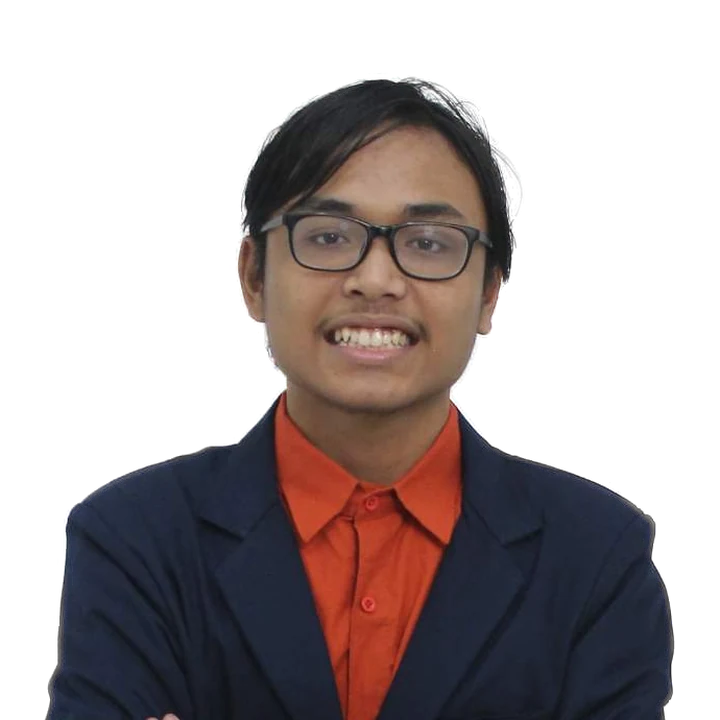
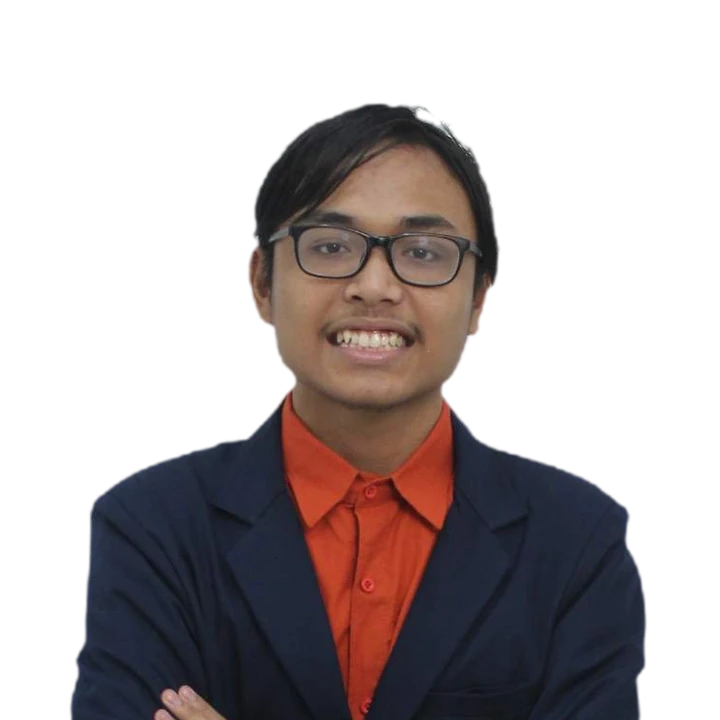
Fixed profile photo

diff --git a/css/styles.css b/css/styles.css
@@ -292,31 +292,51 @@ button.tech-item[aria-pressed="true"] .tech-name { color: var(--accent-soft); }
   box-shadow: 0 0 0 10px rgba(74, 144, 226, 0.06), 0 0 60px -10px rgba(74, 144, 226, 0.55);
 }
 .photo img { width: 100%; height: 100%; object-fit: cover; }
-/* real photo: background removed, head rises out of the circle, chest fades into the page */
+/* real photo: background removed, layered like a studio card.
+   Layers, back to front: glow circle, glass arch, photo (floats), light line. */
 .photo.has-img {
-  width: min(19rem, 100%); aspect-ratio: 1;
+  --px: 0px; --py: 0px;
+  width: min(20rem, 100%); aspect-ratio: 1;
   border-radius: 0; overflow: visible; background: none; border: 0; box-shadow: none;
   display: block; isolation: isolate;
 }
-.photo.has-img::before {
-  content: ""; position: absolute; z-index: -1;
-  left: 4%; right: 4%; bottom: 3%; aspect-ratio: 1;
-  border-radius: 50%;
-  background: radial-gradient(circle at 50% 38%, rgba(74, 144, 226, 0.34), rgba(25, 27, 31, 0.92) 72%);
-  border: 1px solid rgba(139, 180, 255, 0.3);
-  box-shadow: 0 0 0 10px rgba(74, 144, 226, 0.05), 0 0 70px -12px rgba(74, 144, 226, 0.6);
+.photo-ring, .photo-arch, .photo-line { position: absolute; pointer-events: none; }
+.photo-ring {
+  z-index: -2; inset: 3% 5% 5%; border-radius: 50%;
+  background: radial-gradient(circle at 50% 40%, rgba(74, 144, 226, 0.32), rgba(20, 34, 54, 0.85) 58%, rgba(17, 19, 23, 0.95) 76%);
+  border: 1px solid rgba(139, 180, 255, 0.28);
+  box-shadow: 0 0 0 12px rgba(74, 144, 226, 0.035), 0 0 80px -10px rgba(74, 144, 226, 0.5);
+  transform: translate(calc(var(--px) * -0.4), calc(var(--py) * -0.4));
 }
-.photo.has-img::after {
-  content: ""; position: absolute; left: 8%; right: 8%; bottom: 3%; height: 2px;
-  border-radius: 2px;
-  background: linear-gradient(90deg, transparent, var(--accent), transparent);
-  box-shadow: 0 0 14px 1px rgba(74, 144, 226, 0.7);
+.photo-arch {
+  z-index: -1; left: 21%; right: 21%; top: 19%; bottom: 5%;
+  border-radius: 999px 999px 16px 16px;
+  background: linear-gradient(180deg, rgba(160, 196, 255, 0.13), rgba(160, 196, 255, 0.03) 70%, transparent);
+  border: 1px solid rgba(160, 196, 255, 0.16); border-bottom: 0;
+  -webkit-backdrop-filter: blur(6px); backdrop-filter: blur(6px);
+  transform: translate(calc(var(--px) * -0.2), calc(var(--py) * -0.2));
+}
+.photo-line {
+  left: 0; right: 0; bottom: 5%; height: 2px; border-radius: 2px;
+  background: linear-gradient(90deg, transparent, rgba(74, 144, 226, 0.6) 15%, #8bb4ff 50%, rgba(74, 144, 226, 0.6) 85%, transparent);
+  box-shadow: 0 0 18px 2px rgba(74, 144, 226, 0.55);
+  animation: photo-glow 4.8s ease-in-out infinite;
 }
 .photo.has-img img {
   position: relative; display: block; width: 100%; height: auto;
   object-fit: contain;
-  -webkit-mask-image: linear-gradient(to bottom, #000 70%, transparent 97%);
-  mask-image: linear-gradient(to bottom, #000 70%, transparent 97%);
+  -webkit-mask-image: linear-gradient(to bottom, #000 74%, transparent 95%);
+  mask-image: linear-gradient(to bottom, #000 74%, transparent 95%);
+  filter: drop-shadow(0 18px 24px rgba(0, 0, 0, 0.35));
+  translate: var(--px) var(--py);
+  animation: photo-float 4.8s ease-in-out infinite;
+  transition: translate 0.25s ease-out;
+}
+@keyframes photo-float { 0%, 100% { transform: translateY(0); } 50% { transform: translateY(-10px); } }
+@keyframes photo-glow { 0%, 100% { opacity: 0.75; } 50% { opacity: 1; } }
+@media (prefers-reduced-motion: reduce) {
+  .photo.has-img img, .photo-line { animation: none; }
+  .photo.has-img img, .photo-ring, .photo-arch { translate: none; transform: none; }
 }
 .photo-initials { font-weight: 800; font-size: clamp(3rem, 7vw, 4.25rem); color: var(--accent-soft); letter-spacing: 0.02em; }
 .photo-note { margin-top: var(--s2); font-size: 0.8rem; color: var(--muted); }

diff --git a/js/main.js b/js/main.js
@@ -138,7 +138,28 @@ function renderProfile(el, [profile, contact]) {
 
   const photo = h("div", { class: profile.FOTO ? "photo has-img" : "photo" });
   if (profile.FOTO) {
-    photo.append(h("img", { src: profile.FOTO, alt: profile.FOTO_ALT || profile.NAMA, width: 720, height: 720, fetchpriority: "high", decoding: "async" }));
+    photo.append(
+      h("span", { class: "photo-ring", "aria-hidden": "true" }),
+      h("span", { class: "photo-arch", "aria-hidden": "true" }),
+      h("img", { src: profile.FOTO, alt: profile.FOTO_ALT || profile.NAMA, width: 720, height: 720, fetchpriority: "high", decoding: "async" }),
+      h("span", { class: "photo-line", "aria-hidden": "true" }));
+    // gentle depth: layers drift a few pixels with the pointer (mouse only, off when motion is reduced)
+    if (matchMedia("(hover: hover) and (pointer: fine)").matches && !matchMedia("(prefers-reduced-motion: reduce)").matches) {
+      const hero = document.querySelector(".hero") || document.body;
+      let raf = 0;
+      hero.addEventListener("pointermove", e => {
+        if (raf) return;
+        raf = requestAnimationFrame(() => {
+          raf = 0;
+          const r = photo.getBoundingClientRect();
+          const dx = Math.max(-1, Math.min(1, (e.clientX - (r.left + r.width / 2)) / (r.width * 1.5)));
+          const dy = Math.max(-1, Math.min(1, (e.clientY - (r.top + r.height / 2)) / (r.height * 1.5)));
+          photo.style.setProperty("--px", `${(dx * 8).toFixed(1)}px`);
+          photo.style.setProperty("--py", `${(dy * 6).toFixed(1)}px`);
+        });
+      });
+      hero.addEventListener("pointerleave", () => { photo.style.setProperty("--px", "0px"); photo.style.setProperty("--py", "0px"); });
+    }
   } else {
     photo.append(h("span", { class: "photo-initials", "aria-hidden": "true", text: profile.INISIAL || "" }));
   }
